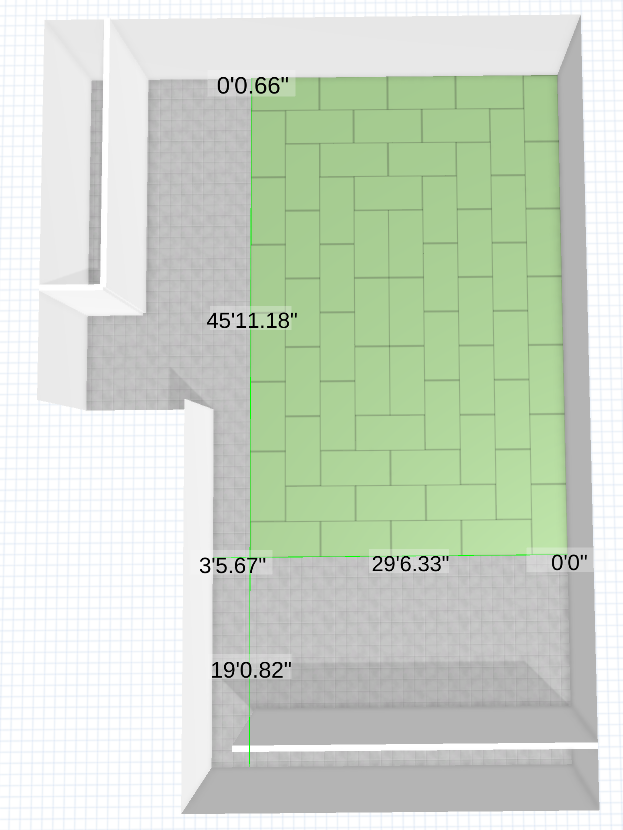
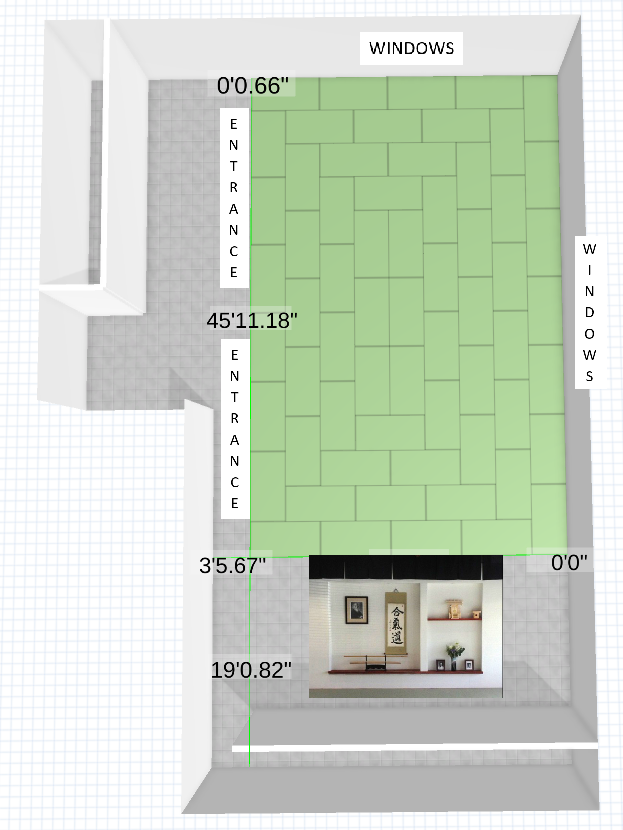
final

diff --git a/projects/baam/baam.html b/projects/baam/baam.html
@@ -14,8 +14,15 @@
 
 <body>
 
-<h2>Boston Aikikai</h2>
-<p>All blames go to Đạt Huỳnh.</p>
+<h2>BAM!</h2>
+<p>Boston Aikikai Mats Fundraiser</p>
+<p>Make it green. Help Boston Aikikai pay for the new tatami at our new space
+Each mat you adopt, you can have your name (or remain anonymous) and a short message written on the bottom of your chosen mat and it will be displayed on a poster on the dojo wall.</p>
+<p>The mats that on the windows are higher in value because of fresh air and at the entrance because of the heat and restroom. The prime real estate are at the front by the kamiza which are available to the highest bid (minimum of $135). The donation of the mat descreases toward the center of the mat.</p>
+<p>Thank you very much for your donation. The payment is secured through PayPal. For easier purchase, it is best to have a PayPal account (https://www.paypal.com).</p>
+<p>For other possible donation options or inquiries, please contact Boston Aikikai (bostonaikikai617@gmail.com, subject: Mat Donation).</p>
+<p>We hope you enjoy taking ukemi on your mat.</p>
+<p>Thank you very much !!! With gratitude, Boston Aikikai Dojo. </p>
 
 <script>
 	alert("For optimal experience, please view the site with big screen devices such as tablets, laptops. The layout might be distorted on small screen such as phone.");
@@ -216,6 +223,10 @@
 		}
 	}
 	
+	function round_2(num){
+		return Math.round(num * 100)/100;
+	}
+	
 	function compute_price(){
 		var ret = 0;
 		for (var i = 0; i < mats.length; i++) {
@@ -227,7 +238,7 @@
 				ret += prices[i];
 			}
 		}
-		return ret;
+		return round_2(ret*1.03);
 	}
 	
 	function unselect(){
@@ -686,7 +697,7 @@ Select
 	<textarea name="note" style="height: 50px;width: 200px;" rows="10" cols="35"></textarea>
 
 	<br>
-	<p>Total:</p>
+	<p>Total (included 3% transaction fee):</p>
 	<p id="total_price">$0</p>    
 	<br>
 	<button class="button" onclick="donate()">
